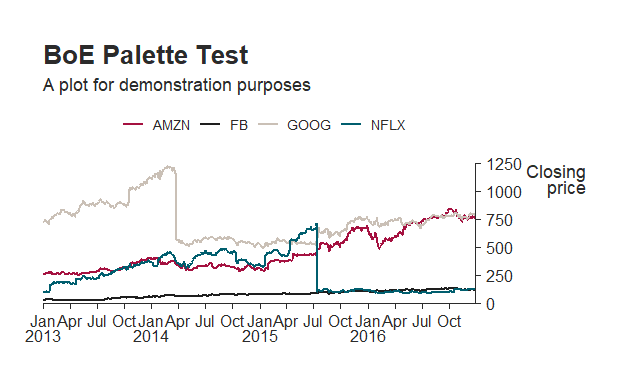
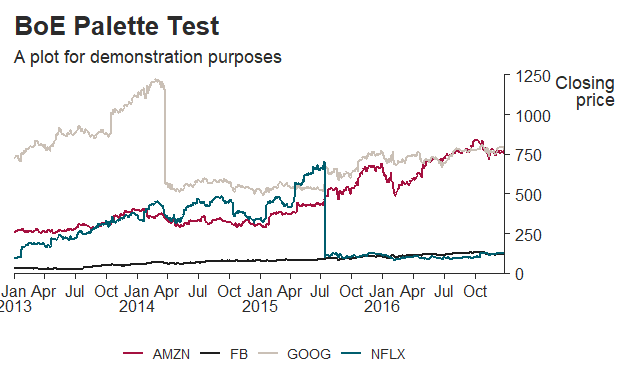
vignettes update

diff --git a/README.md b/README.md
@@ -1,8 +1,11 @@
 <!-- README.md is generated from README.Rmd. Please edit that file -->
+boeCharts
+=========
+
 Overview
 --------
 
-The **boeCharts** R package contains Bank styles for [ggplot2](https://github.com/hadley/ggplot2) charts. It currently houses designs to help you approximate charts found in:
+The `boeCharts` R package contains Bank styles for [ggplot2](https://github.com/hadley/ggplot2) charts. It currently houses designs to help you approximate charts found in these places:
 
 -   [BoE website](https://www.bankofengland.co.uk/statistics/visual-summaries/effective-interest-rates)
 -   [Inflation Report](https://www.bankofengland.co.uk/inflation-report/2018/august-2018/global-economic-and-financial-market-developments)
@@ -11,11 +14,9 @@ The **boeCharts** R package contains Bank styles for [ggplot2](https://github.co
 Install
 -------
 
-Using **boeCharts** also requires the prerequisites described below.
+**boeCharts** is an R package/library best used via R Studio, installed from the [software catalogue](http://sccm-wl-mgt-01/CMApplicationCatalog).
 
-1.  R & R Studio, installed from the [software catalogue](http://sccm-wl-mgt-01/CMApplicationCatalog)
-
-You can install **boeCharts** as follows (from an R session):
+Get the latest stable version of **boeCharts** by running the below code within an R session:
 
 ``` r
 # install remotes (required for installation)
@@ -31,26 +32,28 @@ remotes::install_deps(find.package("boeCharts"))
 Use
 ---
 
+`boeCharts` provides native support for use with [ggplot2](https://ggplot2.tidyverse.org/) (a popular R graphics library). You can use `scale_[colour|fill]_boe` functions for adopting Bank colour palettes within charts generated by `ggplot2`, and `theme_xxx` functions for applying full chart styles supported by `boeCharts`.
+
 ``` r
 # load packages
 library(boeCharts)
 library(ggplot2)
-#> Warning: package 'ggplot2' was built under R version 3.5.2
 
 # create chart
 ggplot(data = FANG, aes(x = date, y = close, colour = symbol)) +
   geom_line(size = 0.7) +
   labs(title = "BoE Palette Test",
-       subtitle="A plot for demonstration purposes",
-       y="Closing\nprice", x=NULL) +
-  # apply boe palette
-  scale_colour_boe(palette = "boe") +
-  # apply MCG theme
+       subtitle = "A plot for demonstration purposes",
+       y = "Closing\nprice", x = NULL) +
+  # apply boe colour palette
+  scale_colour_boe() +
+  # apply an MCG publication theme
   theme_mcg_pub(axis_text_size = 11) +
-  theme(legend.position = "top") +
-  # apply axis settings
-  scale_y_continuous(expand = c(0, 0), breaks = seq(0, 1250, 250), limits = c(0, 1250), position = "right") +
-  scale_x_date(expand = c(0, 0), breaks = seq(min(FANG$date), max(FANG$date), by = "3 months"), labels = boe_date_labels())
+  # apply custom axis settings
+  scale_y_continuous(expand = c(0, 0), breaks = seq(0, 1250, 250), 
+                     limits = c(0, 1250), position = "right") +
+  scale_x_date(expand = c(0, 0), labels = boe_date_labels(),
+               breaks = seq(min(FANG$date), max(FANG$date), by = "3 months"))
 ```
 
 ![](figures/example-1.png)
@@ -67,7 +70,14 @@ This is an ongoing project to abstract and consolidate Bank charting guidelines,
 -   [hrbrthemes](https://github.com/hrbrmstr/hrbrthemes)
 -   [Building a new theme](https://bookdown.org/rdpeng/RProgDA/building-a-new-theme.html)
 
-Also, for general consideration when contributing to the package:
+Also, for general consideration when contributing to the package, try to:
 
--   I observed a lot of the principles in Hadley Wickham's [R Packages book](http://r-pkgs.had.co.nz/)
--   Follow the Git fork/pull request model, or [contact Ewen](mailto:ewen.henderson@bankofengland.co.uk)
+-   Observe principles in Hadley Wickham's [R Packages book](https://r-pkgs.org/)
+-   Follow the Git branch (see [here](https://blog.rstudio.com/2017/09/13/rstudio-v1.1-the-little-things/) for how to create a branch from within R Studio) & [pull request](https://docs.microsoft.com/en-us/azure/devops/repos/git/pullrequest?view=azure-devops) model, or [contact Ewen](mailto:ewen.henderson@bankofengland.co.uk)
+
+TO DO
+-----
+
+-   Implementation of "colour combinations" described in new identity guidelines
+-   Bank Overground theme
+-   Release new minor version

diff --git a/NEWS.md b/NEWS.md
@@ -1,8 +1,8 @@
 # boeCharts 1.1.0
 
-* Implementation of harmonious and vibrant colour combinations as palettes.
-* Standardisation of palette names, all now camel cased.
-* Implementation of easy-printing methods for palettes.
+* Implementation of harmonious and vibrant colour combinations as supported palettes.
+* Standardisation of palette names.
+* Easy-printing methods for palettes (e.g. `boe_pal(palette = "boe", n = 4)`).
 
 
 # boeCharts 1.0.0
